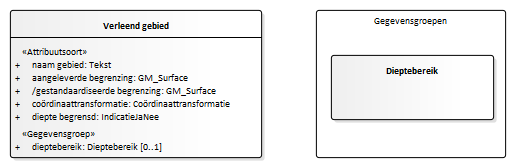
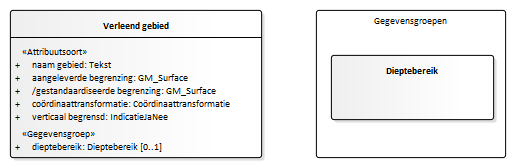
Conceptualmodel-EPLconceptueel-0.1-1-20201106-20210124-235055

Changed region(s): [[0.062, 0.6548, 0.3411, 0.744]]

diff --git a/data/EPL-cat.msword.html b/data/EPL-cat.msword.html
@@ -15,7 +15,7 @@
    <body>
       <p>Conceptual model/EPL conceptueel/20201106</p>
       <p>Imvertor: 1.63.0</p>
-      <p>Model release: Conceptualmodel-EPLconceptueel-0.1-1-20201106-20210124-233830</p>
+      <p>Model release: Conceptualmodel-EPLconceptueel-0.1-1-20201106-20210124-235055</p>
       <hr>
       <section>
          <h1>Artikel 1 Definitie van registratieobject, entiteiten en attributen</h1>
@@ -993,7 +993,7 @@
                            </tr>
                         </tbody>
                      </table>
-                     </section><a class="anchor" id="detail_d35035e3206"></a><section id="detail_d35035e3206">
+                     </section><a class="anchor" id="detail_d35057e3206"></a><section id="detail_d35057e3206">
                      <h4>  registratiegeschiedenis</h4>
                      
                      
@@ -1040,7 +1040,7 @@
                            </tr>
                         </tbody>
                      </table>
-                     </section><a class="anchor" id="detail_d35035e3373"></a><section id="detail_d35035e3373">
+                     </section><a class="anchor" id="detail_d35057e3373"></a><section id="detail_d35057e3373">
                      <h4>  levensduur</h4>
                      
                      
@@ -1098,7 +1098,7 @@
                            </tr>
                         </tbody>
                      </table>
-                     </section><a class="anchor" id="detail_d35035e3589"></a><section id="detail_d35035e3589">
+                     </section><a class="anchor" id="detail_d35057e3589"></a><section id="detail_d35057e3589">
                      <h4>  vergunninggeschiedenis</h4>
                      
                      
@@ -1157,7 +1157,7 @@
                            </tr>
                         </tbody>
                      </table>
-                     </section><a class="anchor" id="detail_d35035e3797"></a><section id="detail_d35035e3797">
+                     </section><a class="anchor" id="detail_d35057e3797"></a><section id="detail_d35057e3797">
                      <h4>  vergunninggebied</h4>
                      
                      
@@ -1204,7 +1204,7 @@
                            </tr>
                         </tbody>
                      </table>
-                     </section><a class="anchor" id="detail_d35035e3964"></a><section id="detail_d35035e3964">
+                     </section><a class="anchor" id="detail_d35057e3964"></a><section id="detail_d35057e3964">
                      <h4>  vergunninghouder</h4>
                      
                      
@@ -1259,7 +1259,7 @@
                            </tr>
                         </tbody>
                      </table>
-                     </section><a class="anchor" id="detail_d35035e4178"></a><section id="detail_d35035e4178">
+                     </section><a class="anchor" id="detail_d35057e4178"></a><section id="detail_d35057e4178">
                      <h4>  lopende wijziging</h4>
                      
                      
@@ -2343,7 +2343,7 @@
                            </tr>
                         </tbody>
                      </table>
-                     </section><a class="anchor" id="detail_d35035e7907"></a><section id="detail_d35035e7907">
+                     </section><a class="anchor" id="detail_d35057e7907"></a><section id="detail_d35057e7907">
                      <h4>  verleend gebied</h4>
                      
                      
@@ -2631,8 +2631,8 @@
                            </tr>
                         </tbody>
                      </table>
-                     </section><a class="anchor" id="detail_attribute_Model_Verleendgebied_dieptebegrensd"></a><section id="detail_attribute_Model_Verleendgebied_dieptebegrensd">
-                     <h4>  diepte begrensd</h4>
+                     </section><a class="anchor" id="detail_attribute_Model_Verleendgebied_verticaalbegrensd"></a><section id="detail_attribute_Model_Verleendgebied_verticaalbegrensd">
+                     <h4>  verticaal begrensd</h4>
                      
                      <table style="width: 100%;">
                         <colgroup style="width: 30%;"></colgroup>
@@ -2679,7 +2679,7 @@
                            </tr>
                         </tbody>
                      </table>
-                     </section><a class="anchor" id="detail_d35035e8996"></a><section id="detail_d35035e8996">
+                     </section><a class="anchor" id="detail_d35057e8996"></a><section id="detail_d35057e8996">
                      <h4>  dieptebereik</h4>
                      
                      
@@ -2724,6 +2724,15 @@
                                  Dieptebereik
                                  </td>
                            </tr>
+                           <tr>
+                              <th>Regels</th>
+                              <td>
+                                 
+                                 <p>De gegevensgroep moet aanwezig zijn wanneer de waarde van het attribuut <em>verticaal begrensd</em> gelijk is aan <em>ja</em>.<br clear="none">
+                                    De gegevensgroep mag niet aanwezig zijn in alle andere gevallen.<br clear="none">
+                                    </p>
+                                 </td>
+                           </tr>
                         </tbody>
                      </table>
                      </section>
@@ -2751,7 +2760,9 @@
                            <th>Regels</th>
                            <td>
                               
-                              <p>Ten minste één van de volgende attributen moet aanwezig zijn: <em>geologische bovengrens</em>, <em>geologische ondergrens</em>, <em>begindiepte</em> of <em>einddiepte</em>.</p>
+                              <p>De entiteit moet aanwezig zijn wanneer de waarde van het attribuut <em>verticaal begrensd</em> van de entiteit <em>Verleend gebied</em> gelijk is aan <em>ja</em>.<br clear="none">
+                                 De entiteit mag niet aanwezig zijn in alle andere gevallen.<br clear="none">
+                                 Ten minste één van de volgende attributen moet aanwezig zijn: <em>geologische bovengrens</em>, <em>geologische ondergrens</em>, <em>begindiepte</em> of <em>einddiepte</em>.</p>
                               </td>
                         </tr>
                         <tr>
@@ -2879,7 +2890,7 @@
                            </tr>
                         </tbody>
                      </table>
-                     </section><a class="anchor" id="detail_d35035e9686"></a><section id="detail_d35035e9686">
+                     </section><a class="anchor" id="detail_d35057e9751"></a><section id="detail_d35057e9751">
                      <h4>  geologische bovengrens</h4>
                      
                      
@@ -2939,7 +2950,7 @@
                            </tr>
                         </tbody>
                      </table>
-                     </section><a class="anchor" id="detail_d35035e9902"></a><section id="detail_d35035e9902">
+                     </section><a class="anchor" id="detail_d35057e9967"></a><section id="detail_d35057e9967">
                      <h4>  geologische ondergrens</h4>
                      
                      
@@ -3379,7 +3390,7 @@
                            </tr>
                         </tbody>
                      </table>
-                     </section><a class="anchor" id="detail_d35035e11388"></a><section id="detail_d35035e11388">
+                     </section><a class="anchor" id="detail_d35057e11464"></a><section id="detail_d35057e11464">
                      <h4>  te wijzigen gegevens</h4>
                      
                      
@@ -3755,7 +3766,7 @@
                            </tr>
                         </tbody>
                      </table>
-                     </section><a class="anchor" id="detail_d35035e12690"></a><section id="detail_d35035e12690">
+                     </section><a class="anchor" id="detail_d35057e12766"></a><section id="detail_d35057e12766">
                      <h4>  geologische bovengrens</h4>
                      
                      
@@ -3802,7 +3813,7 @@
                            </tr>
                         </tbody>
                      </table>
-                     </section><a class="anchor" id="detail_d35035e12857"></a><section id="detail_d35035e12857">
+                     </section><a class="anchor" id="detail_d35057e12933"></a><section id="detail_d35057e12933">
                      <h4>  geologische ondergrens</h4>
                      
                      

diff --git a/data/EPL-cat.respec.html b/data/EPL-cat.respec.html
@@ -969,7 +969,7 @@
                   </tr>
                </tbody>
             </table>
-            </section><a class="anchor" id="detail_d35035e3206"></a><section id="detail_d35035e3206">
+            </section><a class="anchor" id="detail_d35057e3206"></a><section id="detail_d35057e3206">
             <h4>  registratiegeschiedenis</h4>
             
             
@@ -1016,7 +1016,7 @@
                   </tr>
                </tbody>
             </table>
-            </section><a class="anchor" id="detail_d35035e3373"></a><section id="detail_d35035e3373">
+            </section><a class="anchor" id="detail_d35057e3373"></a><section id="detail_d35057e3373">
             <h4>  levensduur</h4>
             
             
@@ -1074,7 +1074,7 @@
                   </tr>
                </tbody>
             </table>
-            </section><a class="anchor" id="detail_d35035e3589"></a><section id="detail_d35035e3589">
+            </section><a class="anchor" id="detail_d35057e3589"></a><section id="detail_d35057e3589">
             <h4>  vergunninggeschiedenis</h4>
             
             
@@ -1133,7 +1133,7 @@
                   </tr>
                </tbody>
             </table>
-            </section><a class="anchor" id="detail_d35035e3797"></a><section id="detail_d35035e3797">
+            </section><a class="anchor" id="detail_d35057e3797"></a><section id="detail_d35057e3797">
             <h4>  vergunninggebied</h4>
             
             
@@ -1180,7 +1180,7 @@
                   </tr>
                </tbody>
             </table>
-            </section><a class="anchor" id="detail_d35035e3964"></a><section id="detail_d35035e3964">
+            </section><a class="anchor" id="detail_d35057e3964"></a><section id="detail_d35057e3964">
             <h4>  vergunninghouder</h4>
             
             
@@ -1235,7 +1235,7 @@
                   </tr>
                </tbody>
             </table>
-            </section><a class="anchor" id="detail_d35035e4178"></a><section id="detail_d35035e4178">
+            </section><a class="anchor" id="detail_d35057e4178"></a><section id="detail_d35057e4178">
             <h4>  lopende wijziging</h4>
             
             
@@ -2319,7 +2319,7 @@
                   </tr>
                </tbody>
             </table>
-            </section><a class="anchor" id="detail_d35035e7907"></a><section id="detail_d35035e7907">
+            </section><a class="anchor" id="detail_d35057e7907"></a><section id="detail_d35057e7907">
             <h4>  verleend gebied</h4>
             
             
@@ -2607,8 +2607,8 @@
                   </tr>
                </tbody>
             </table>
-            </section><a class="anchor" id="detail_attribute_Model_Verleendgebied_dieptebegrensd"></a><section id="detail_attribute_Model_Verleendgebied_dieptebegrensd">
-            <h4>  diepte begrensd</h4>
+            </section><a class="anchor" id="detail_attribute_Model_Verleendgebied_verticaalbegrensd"></a><section id="detail_attribute_Model_Verleendgebied_verticaalbegrensd">
+            <h4>  verticaal begrensd</h4>
             
             <table style="width: 100%;">
                <colgroup style="width: 30%;"></colgroup>
@@ -2655,7 +2655,7 @@
                   </tr>
                </tbody>
             </table>
-            </section><a class="anchor" id="detail_d35035e8996"></a><section id="detail_d35035e8996">
+            </section><a class="anchor" id="detail_d35057e8996"></a><section id="detail_d35057e8996">
             <h4>  dieptebereik</h4>
             
             
@@ -2700,6 +2700,15 @@
                         Dieptebereik
                         </td>
                   </tr>
+                  <tr>
+                     <th>Regels</th>
+                     <td>
+                        
+                        <p>De gegevensgroep moet aanwezig zijn wanneer de waarde van het attribuut <em>verticaal begrensd</em> gelijk is aan <em>ja</em>.<br clear="none">
+                           De gegevensgroep mag niet aanwezig zijn in alle andere gevallen.<br clear="none">
+                           </p>
+                        </td>
+                  </tr>
                </tbody>
             </table>
             </section>
@@ -2727,7 +2736,9 @@
                   <th>Regels</th>
                   <td>
                      
-                     <p>Ten minste één van de volgende attributen moet aanwezig zijn: <em>geologische bovengrens</em>, <em>geologische ondergrens</em>, <em>begindiepte</em> of <em>einddiepte</em>.</p>
+                     <p>De entiteit moet aanwezig zijn wanneer de waarde van het attribuut <em>verticaal begrensd</em> van de entiteit <em>Verleend gebied</em> gelijk is aan <em>ja</em>.<br clear="none">
+                        De entiteit mag niet aanwezig zijn in alle andere gevallen.<br clear="none">
+                        Ten minste één van de volgende attributen moet aanwezig zijn: <em>geologische bovengrens</em>, <em>geologische ondergrens</em>, <em>begindiepte</em> of <em>einddiepte</em>.</p>
                      </td>
                </tr>
                <tr>
@@ -2855,7 +2866,7 @@
                   </tr>
                </tbody>
             </table>
-            </section><a class="anchor" id="detail_d35035e9686"></a><section id="detail_d35035e9686">
+            </section><a class="anchor" id="detail_d35057e9751"></a><section id="detail_d35057e9751">
             <h4>  geologische bovengrens</h4>
             
             
@@ -2915,7 +2926,7 @@
                   </tr>
                </tbody>
             </table>
-            </section><a class="anchor" id="detail_d35035e9902"></a><section id="detail_d35035e9902">
+            </section><a class="anchor" id="detail_d35057e9967"></a><section id="detail_d35057e9967">
             <h4>  geologische ondergrens</h4>
             
             
@@ -3355,7 +3366,7 @@
                   </tr>
                </tbody>
             </table>
-            </section><a class="anchor" id="detail_d35035e11388"></a><section id="detail_d35035e11388">
+            </section><a class="anchor" id="detail_d35057e11464"></a><section id="detail_d35057e11464">
             <h4>  te wijzigen gegevens</h4>
             
             
@@ -3731,7 +3742,7 @@
                   </tr>
                </tbody>
             </table>
-            </section><a class="anchor" id="detail_d35035e12690"></a><section id="detail_d35035e12690">
+            </section><a class="anchor" id="detail_d35057e12766"></a><section id="detail_d35057e12766">
             <h4>  geologische bovengrens</h4>
             
             
@@ -3778,7 +3789,7 @@
                   </tr>
                </tbody>
             </table>
-            </section><a class="anchor" id="detail_d35035e12857"></a><section id="detail_d35035e12857">
+            </section><a class="anchor" id="detail_d35057e12933"></a><section id="detail_d35057e12933">
             <h4>  geologische ondergrens</h4>
             
             
